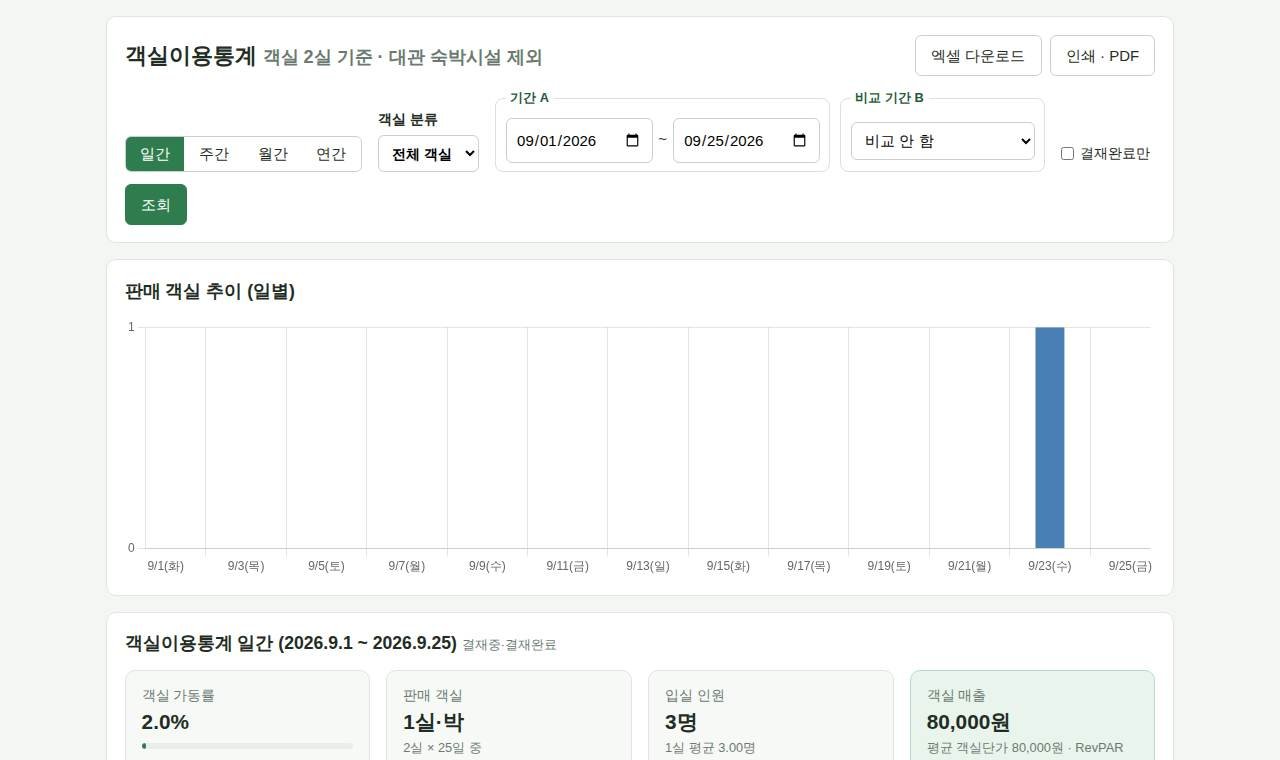
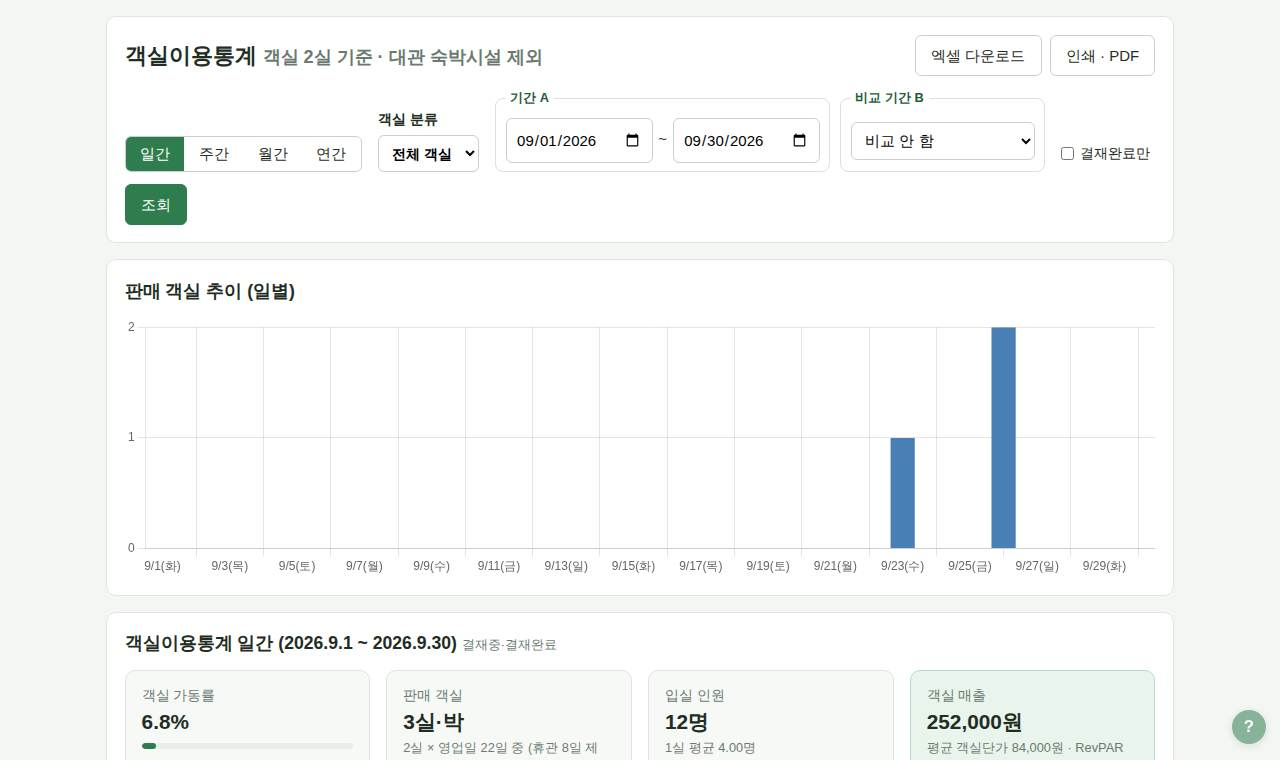
휴관일 설정(정기 휴관 요일·명절 휴관) + 객실 가동률을 영업일 기준으로 (DB v42)
설정 › 휴관일: 매주 정기 휴관 요일(기본 화)과 명절 등 휴관 기간(closed_days) 관리.
객실이용통계 가동률·RevPAR 분모 = 객실 수 × 영업일(휴관일 제외). 표·요일별·엑셀에 휴관 표시.
도움말·업데이트·README 반영.

Claude-Session: https://claude.ai/code/session_01Lr6yxKyasrSL9QLfMX5TX8

diff --git a/assets/style.css b/assets/style.css
@@ -277,6 +277,7 @@ a.kpi:hover { text-decoration: none; border-color: var(--green); }
 .dc-form { display: flex; flex-wrap: wrap; align-items: center; gap: .5rem 1rem; padding: .6rem .8rem; background: #f7f9f7; border-radius: 6px; margin-bottom: .75rem; }
 .dc-form label { display: inline-flex; align-items: center; gap: .3rem; margin: 0; font-weight: 400; }
 .dc-form input { width: 4rem; margin: 0; }
+.dc-form .inline-check input { width: auto; }
 .dc-preview { display: block; font-size: .75rem; text-align: right; margin-top: .15rem; }
 table[data-voucher-summary] tr.issue td { color: var(--red); font-weight: 600; }
 
@@ -1148,3 +1149,5 @@ label .tm-pick { display: flex; margin-top: .25rem; }
 .tg-day .tg-ev { font-size: .82rem; }
 .mini-d.sel { outline: 2px solid var(--green); outline-offset: -2px; }
 @media print { .tg-scroll { overflow: visible; } .tg-week { min-width: 0; } }
+
+.rs-table tr.rs-closed td { background: #f6f6f6; color: #9aa0a6; }

diff --git a/room_stats.php b/room_stats.php
@@ -4,7 +4,8 @@
  *   room_stats.php?unit=day|week|month|year&from=&to=[&type=객실분류][&cmp=prev|lastyear|custom&cfrom=&cto=][&approved=1][&export=xlsx]
  * 매출보고의 객실 판매(대관 숙박시설 제외)로 판매 객실·입실인원·매출·가동률·평균 객실단가·RevPAR 를
  * 일간·주간·월간·연간으로 집계하고, 두 기간을 비교한다.
- *   가동률 = 판매 객실(실·박) ÷ (객실 수 × 일수). 객실 수는 상품관리의 '판매 중' 객실 기준
+ *   가동률 = 판매 객실(실·박) ÷ (객실 수 × 영업일). 객실 수는 상품관리의 '판매 중' 객실 기준
+ *   영업일 = 기간의 날 수 − 휴관일 (설정 › 휴관일: 매주 정기 휴관 요일 + 명절 등)
  */
 require __DIR__ . '/app/bootstrap.php';
 require __DIR__ . '/app/xlsx.php';
@@ -81,14 +82,17 @@ function rs_label(string $key, string $unit, string $from, string $to): string
  */
 function rs_period(string $from, string $to, string $unit, array $statuses, int $roomCount, array $roomProducts, bool $onlyThese = false): array
 {
-    $blank = ['days' => 0, 'sold' => 0, 'guests' => 0, 'amount' => 0, 'weekday' => 0, 'weekend' => 0, 'peak' => 0, 'dc' => 0];
+    $blank = ['days' => 0, 'closed' => 0, 'sold' => 0, 'guests' => 0, 'amount' => 0, 'weekday' => 0, 'weekend' => 0, 'peak' => 0, 'dc' => 0];
     $buckets = [];
-    $weekdays = array_fill(0, 7, ['days' => 0, 'sold' => 0, 'guests' => 0, 'amount' => 0]);
+    $weekdays = array_fill(0, 7, ['days' => 0, 'closed' => 0, 'sold' => 0, 'guests' => 0, 'amount' => 0]);
+    $closed = closed_dates($from, $to); // 휴관일은 영업일(가동률 분모)에서 뺀다
     for ($d = $from; $d <= $to; $d = date('Y-m-d', strtotime("$d +1 day"))) {
         $k = rs_key($d, $unit);
         $buckets[$k] ??= $blank + ['label' => rs_label($k, $unit, $from, $to)];
-        $buckets[$k]['days']++;
-        $weekdays[(int) date('w', strtotime($d))]['days']++;
+        $m = isset($closed[$d]) ? 'closed' : 'days';
+        $buckets[$k][$m]++;
+        $weekdays[(int) date('w', strtotime($d))][$m]++;
+        if ($m === 'closed' && $unit === 'day') $buckets[$k]['closed_name'] = $closed[$d];
     }
     $st = db()->prepare(
         "SELECT j.work_date, l.product_id, l.name, l.rate, l.discounted, l.qty, l.guests, l.amount
@@ -197,7 +201,8 @@ $metrics = [
     'weekend' => ['비수기 주말 판매', 'n'],
     'peak'   => ['성수기 판매', 'n'],
     'dc'     => ['할인 판매', 'n'],
-    'days'   => ['일수', 'n'],
+    'days'   => ['영업일 (휴관일 제외)', 'n'],
+    'closed' => ['휴관일', 'n'],
 ];
 $fmtM = fn($v, string $f) => match ($f) { 'p' => number_format($v, 1) . '%', 'f' => number_format($v, 2), default => number_format(round($v)) };
 $periodLabel = fn(string $f, string $t) => date('Y.n.j', strtotime($f)) . ' ~ ' . date('Y.n.j', strtotime($t));
@@ -205,13 +210,13 @@ $title = '객실이용통계 ' . ($typeId ? $types[$typeId]['name'] . ' ' : '') 
 
 /* ───────────── 엑셀 ───────────── */
 if (($_GET['export'] ?? '') === 'xlsx') {
-    $sub = "$statusLabel 집계 · 객실 {$roomCount}실 기준 · 출력 " . date('Y-m-d H:i') . ' · ' . $user['name'];
+    $sub = "$statusLabel 집계 · 객실 {$roomCount}실 기준 · 가동률은 휴관일 제외 · 출력 " . date('Y-m-d H:i') . ' · ' . $user['name'];
     $bucketSheet = fn(array $P, string $name, string $pl) => [
         'name' => $name, 'title' => "객실이용통계 $name ($pl)", 'subtitle' => $sub,
-        'header' => ['기간', '일수', '판매 객실', '가동률(%)', '입실 인원', '1실 평균 인원', '객실 매출', '평균 객실단가', 'RevPAR', '비수기 평일', '비수기 주말', '성수기', '할인'],
-        'rows' => array_map(fn($b) => [$b['label'], $b['days'], $b['sold'], round($b['occ'], 1), $b['guests'], round($b['gpr'], 2), $b['amount'], (int) round($b['adr']), (int) round($b['revpar']), $b['weekday'], $b['weekend'], $b['peak'], $b['dc']], array_values($P['buckets'])),
-        'footer' => [['합계', $P['total']['days'], $P['total']['sold'], round($P['total']['occ'], 1), $P['total']['guests'], round($P['total']['gpr'], 2), $P['total']['amount'], (int) round($P['total']['adr']), (int) round($P['total']['revpar']), $P['total']['weekday'], $P['total']['weekend'], $P['total']['peak'], $P['total']['dc']]],
-        'widths' => [16, 7, 10, 10, 10, 11, 13, 12, 11, 10, 10, 9, 8],
+        'header' => ['기간', '영업일', '휴관일', '판매 객실', '가동률(%)', '입실 인원', '1실 평균 인원', '객실 매출', '평균 객실단가', 'RevPAR', '비수기 평일', '비수기 주말', '성수기', '할인'],
+        'rows' => array_map(fn($b) => [$b['label'] . (!empty($b['closed_name']) ? ' ' . $b['closed_name'] : ''), $b['days'], $b['closed'], $b['sold'], round($b['occ'], 1), $b['guests'], round($b['gpr'], 2), $b['amount'], (int) round($b['adr']), (int) round($b['revpar']), $b['weekday'], $b['weekend'], $b['peak'], $b['dc']], array_values($P['buckets'])),
+        'footer' => [['합계', $P['total']['days'], $P['total']['closed'], $P['total']['sold'], round($P['total']['occ'], 1), $P['total']['guests'], round($P['total']['gpr'], 2), $P['total']['amount'], (int) round($P['total']['adr']), (int) round($P['total']['revpar']), $P['total']['weekday'], $P['total']['weekend'], $P['total']['peak'], $P['total']['dc']]],
+        'widths' => [22, 7, 7, 10, 10, 10, 11, 13, 12, 11, 10, 10, 9, 8],
     ];
     $sheets = [$bucketSheet($A, '기간A ' . RS_UNITS[$unit], $periodLabel($from, $to))];
     if ($B) {
@@ -233,7 +238,7 @@ if (($_GET['export'] ?? '') === 'xlsx') {
         'widths' => [24, 10, 10, 10, 13, 10, 12, 13]];
     $wd = ['일', '월', '화', '수', '목', '금', '토'];
     $sheets[] = ['name' => '요일별', 'title' => '요일별 가동률', 'subtitle' => $sub,
-        'header' => ['요일', '일수', '판매', '가동률(%)', '입실 인원', '매출', ...($B ? ['비교 판매', '비교 가동률(%)'] : [])],
+        'header' => ['요일', '영업일', '판매', '가동률(%)', '입실 인원', '매출', ...($B ? ['비교 판매', '비교 가동률(%)'] : [])],
         'rows' => array_map(fn($i) => [$wd[$i], $A['weekdays'][$i]['days'], $A['weekdays'][$i]['sold'], round($A['weekdays'][$i]['occ'], 1), $A['weekdays'][$i]['guests'], $A['weekdays'][$i]['amount'],
             ...($B ? [$B['weekdays'][$i]['sold'], round($B['weekdays'][$i]['occ'], 1)] : [])], [1, 2, 3, 4, 5, 6, 0]),
         'widths' => [8, 8, 8, 10, 10, 13, 10, 12]];
@@ -301,7 +306,7 @@ stat_chart('roomChart', '판매 객실 추이 (' . ($cg === 'day' ? '일별' : '
   <div class="kpis rs-kpis">
     <div class="kpi"><span>객실 가동률</span><b><?= $pct($T['occ']) ?></b><?= $occBar($T['occ']) ?>
       <?php if ($B): ?><small class="rs-diff <?= $T['occ'] >= $B['total']['occ'] ? 'up' : 'down' ?>">B 대비 <?= e($diffTxt($T['occ'], $B['total']['occ'], true)) ?></small><?php endif ?></div>
-    <div class="kpi"><span>판매 객실</span><b><?= number_format($T['sold']) ?>실·박</b><small class="muted"><?= $roomCount ?>실 × <?= $A['days'] ?>일 중</small>
+    <div class="kpi"><span>판매 객실</span><b><?= number_format($T['sold']) ?>실·박</b><small class="muted"><?= $roomCount ?>실 × 영업일 <?= $A['days'] ?>일 중<?= $T['closed'] ? ' (휴관 ' . $T['closed'] . '일 제외)' : '' ?></small>
       <?php if ($B): ?><small class="rs-diff <?= $T['sold'] >= $B['total']['sold'] ? 'up' : 'down' ?>">B 대비 <?= e($diffTxt($T['sold'], $B['total']['sold'])) ?></small><?php endif ?></div>
     <div class="kpi"><span>입실 인원</span><b><?= number_format($T['guests']) ?>명</b><small class="muted">1실 평균 <?= number_format($T['gpr'], 2) ?>명</small>
       <?php if ($B): ?><small class="rs-diff <?= $T['guests'] >= $B['total']['guests'] ? 'up' : 'down' ?>">B 대비 <?= e($diffTxt($T['guests'], $B['total']['guests'])) ?></small><?php endif ?></div>
@@ -357,7 +362,7 @@ stat_chart('roomChart', '판매 객실 추이 (' . ($cg === 'day' ? '일별' : '
       <tr><th>구간</th><th class="right">판매</th><th>가동률</th><th class="right">인원</th><th class="right">매출</th>
         <th class="rs-b">구간</th><th class="right rs-b">판매</th><th class="right rs-b">가동률</th><th class="right rs-b">매출</th><th class="right">가동률</th><th class="right">매출</th></tr>
       <?php else: ?>
-      <tr><th>구간</th><th class="right">일수</th><th class="right">판매</th><th>가동률</th><th class="right">입실 인원</th><th class="right">1실 평균</th><th class="right">객실 매출</th><th class="right">평균 객실단가</th><th class="right">RevPAR</th>
+      <tr><th>구간</th><th class="right">영업일</th><th class="right">판매</th><th>가동률</th><th class="right">입실 인원</th><th class="right">1실 평균</th><th class="right">객실 매출</th><th class="right">평균 객실단가</th><th class="right">RevPAR</th>
         <th class="right">비수기 평일</th><th class="right">비수기 주말</th><th class="right">성수기</th><th class="right">할인</th></tr>
       <?php endif ?>
     </thead>
@@ -374,9 +379,10 @@ stat_chart('roomChart', '판매 객실 추이 (' . ($cg === 'day' ? '일별' : '
         <td class="right rs-diff <?= $a && $b ? ($a['amount'] > $b['amount'] ? 'up' : ($a['amount'] < $b['amount'] ? 'down' : '')) : '' ?>"><?= $a && $b ? e($diffTxt($a['amount'], $b['amount'])) : '' ?></td>
       </tr>
     <?php endfor; else: foreach ($A['buckets'] as $b): ?>
-      <tr class="<?= $b['sold'] ? '' : 'zero' ?>">
-        <td class="nowrap"><?= e($b['label']) ?></td><td class="right"><?= $b['days'] ?></td><td class="right"><?= number_format($b['sold']) ?></td>
-        <td class="nowrap"><?= $occBar($b['occ']) ?> <?= $pct($b['occ']) ?></td><td class="right"><?= number_format($b['guests']) ?></td><td class="right"><?= number_format($b['gpr'], 2) ?></td>
+      <tr class="<?= $b['sold'] ? '' : 'zero' ?> <?= !$b['days'] && $b['closed'] ? 'rs-closed' : '' ?>">
+        <td class="nowrap"><?= e($b['label']) ?><?= !empty($b['closed_name']) ? ' <small class="muted">' . e($b['closed_name']) . '</small>' : '' ?></td>
+        <td class="right"><?= $b['days'] ?><?= $b['closed'] && $b['days'] ? ' <small class="muted">(휴관 ' . $b['closed'] . ')</small>' : '' ?></td><td class="right"><?= number_format($b['sold']) ?></td>
+        <td class="nowrap"><?= !$b['days'] && $b['closed'] ? '<span class="muted">휴관</span>' : $occBar($b['occ']) . ' ' . $pct($b['occ']) ?></td><td class="right"><?= number_format($b['guests']) ?></td><td class="right"><?= number_format($b['gpr'], 2) ?></td>
         <td class="right"><?= number_format($b['amount']) ?></td><td class="right"><?= number_format(round($b['adr'])) ?></td><td class="right"><?= number_format(round($b['revpar'])) ?></td>
         <td class="right"><?= $b['weekday'] ?: '-' ?></td><td class="right"><?= $b['weekend'] ?: '-' ?></td><td class="right"><?= $b['peak'] ?: '-' ?></td><td class="right"><?= $b['dc'] ?: '-' ?></td>
       </tr>
@@ -388,7 +394,7 @@ stat_chart('roomChart', '판매 객실 추이 (' . ($cg === 'day' ? '일별' : '
         <th class="rs-b">합계 B</th><th class="right rs-b"><?= number_format($B['total']['sold']) ?></th><th class="right rs-b"><?= $pct($B['total']['occ']) ?></th><th class="right rs-b"><?= number_format($B['total']['amount']) ?></th>
         <th class="right"><?= e($diffTxt($T['occ'], $B['total']['occ'], true)) ?></th><th class="right"><?= e($diffTxt($T['amount'], $B['total']['amount'])) ?></th></tr>
       <?php else: ?>
-      <tr><th>합계</th><th class="right"><?= $T['days'] ?></th><th class="right"><?= number_format($T['sold']) ?></th><th><?= $pct($T['occ']) ?></th><th class="right"><?= number_format($T['guests']) ?></th>
+      <tr><th>합계</th><th class="right"><?= $T['days'] ?><?= $T['closed'] ? ' <small>(휴관 ' . $T['closed'] . ')</small>' : '' ?></th><th class="right"><?= number_format($T['sold']) ?></th><th><?= $pct($T['occ']) ?></th><th class="right"><?= number_format($T['guests']) ?></th>
         <th class="right"><?= number_format($T['gpr'], 2) ?></th><th class="right"><?= number_format($T['amount']) ?></th><th class="right"><?= number_format(round($T['adr'])) ?></th><th class="right"><?= number_format(round($T['revpar'])) ?></th>
         <th class="right"><?= $T['weekday'] ?></th><th class="right"><?= $T['weekend'] ?></th><th class="right"><?= $T['peak'] ?></th><th class="right"><?= $T['dc'] ?></th></tr>
       <?php endif ?>
@@ -419,18 +425,18 @@ stat_chart('roomChart', '판매 객실 추이 (' . ($cg === 'day' ? '일별' : '
   <section class="card">
     <h2>요일별 가동률</h2>
     <table class="table">
-      <thead><tr><th>요일</th><th class="right">일수</th><th class="right">판매</th><th>가동률</th><th class="right">인원</th><?php if ($B): ?><th class="right">B 가동률</th><?php endif ?></tr></thead>
+      <thead><tr><th>요일</th><th class="right">영업일</th><th class="right">판매</th><th>가동률</th><th class="right">인원</th><?php if ($B): ?><th class="right">B 가동률</th><?php endif ?></tr></thead>
       <tbody>
       <?php foreach ([1, 2, 3, 4, 5, 6, 0] as $i): $w = $A['weekdays'][$i]; ?>
         <tr><td class="<?= $i === 0 ? 'sun-text' : ($i === 6 ? 'sat-text' : '') ?>"><?= ['일', '월', '화', '수', '목', '금', '토'][$i] ?></td>
-          <td class="right"><?= $w['days'] ?></td><td class="right"><?= number_format($w['sold']) ?></td>
-          <td class="nowrap"><?= $occBar($w['occ']) ?> <?= $pct($w['occ']) ?></td><td class="right"><?= number_format($w['guests']) ?></td>
+          <td class="right"><?= $w['days'] ?><?= $w['closed'] ? ' <small class="muted">(휴관 ' . $w['closed'] . ')</small>' : '' ?></td><td class="right"><?= number_format($w['sold']) ?></td>
+          <td class="nowrap"><?= !$w['days'] && $w['closed'] ? '<span class="muted">정기 휴관</span>' : $occBar($w['occ']) . ' ' . $pct($w['occ']) ?></td><td class="right"><?= number_format($w['guests']) ?></td>
           <?php if ($B): ?><td class="right"><?= $pct($B['weekdays'][$i]['occ']) ?></td><?php endif ?></tr>
       <?php endforeach ?>
       </tbody>
     </table>
   </section>
 </div>
-<p class="muted small">가동률 = 판매 객실(실·박) ÷ (객실 수 <?= $roomCount ?>실 × 일수). 객실 수는 상품관리에서 '판매' 중인 객실 기준입니다.
-  평균 객실단가 = 객실 매출 ÷ 판매 객실, RevPAR(객실당 1일 매출) = 객실 매출 ÷ (객실 수 × 일수). 임시저장·반려된 매출보고는 집계하지 않고, 대관 숙박시설은 제외합니다.</p>
+<p class="muted small">가동률 = 판매 객실(실·박) ÷ (객실 수 <?= $roomCount ?>실 × <b>영업일</b>). 영업일은 기간의 날 수에서 <b>휴관일</b>(정기 휴관 요일<?= closed_weekdays() ? ' ' . e(implode('·', array_map(fn($w) => ['일', '월', '화', '수', '목', '금', '토'][$w], closed_weekdays()))) : '' ?> + 명절 등)을 뺀 날입니다<?= $user['is_admin'] ? ' (<a href="' . e(url('settings.php?tab=closed')) . '">설정 › 휴관일</a>)' : ' (설정 › 휴관일, 최고관리자)' ?>. 객실 수는 상품관리에서 '판매' 중인 객실 기준입니다.
+  평균 객실단가 = 객실 매출 ÷ 판매 객실, RevPAR(객실당 1일 매출) = 객실 매출 ÷ (객실 수 × 영업일). 임시저장·반려된 매출보고는 집계하지 않고, 대관 숙박시설은 제외합니다.</p>
 <?php layout_footer();

diff --git a/settings.php b/settings.php
@@ -1,13 +1,13 @@
 <?php
 /**
- * 설정 (최고관리자): settings.php?tab=general (기본 정보) | org (조직 구성: 팀·반)
+ * 설정 (최고관리자): settings.php?tab=general (기본 정보) | org (조직 구성: 팀·반) | closed (휴관일: 정기 휴관 요일·명절 등)
  * 다른 하위 메뉴(회원관리, 상품·요금, 시설 구역, 장비 분류)는 각 페이지에서 같은 설정 메뉴를 보여준다.
  */
 require __DIR__ . '/app/bootstrap.php';
 
 $me = require_admin();
 $pdo = db();
-$tab = ($_GET['tab'] ?? 'general') === 'org' ? 'org' : 'general';
+$tab = in_array($_GET['tab'] ?? '', ['org', 'closed'], true) ? $_GET['tab'] : 'general';
 
 if (is_post()) {
     csrf_verify();
@@ -27,6 +27,36 @@ if (is_post()) {
         setting_set('org_park_name', mb_substr(post('org_park_name'), 0, 100));
         flash('기본 정보를 저장했습니다.', 'success');
         redirect('settings.php?tab=general');
+    }
+
+    // 휴관일: 정기 휴관 요일 / 명절 등 휴관 기간 (객실이용통계 가동률에서 뺀다)
+    if ($target === 'closed_weekdays') {
+        $wds = array_values(array_unique(array_filter(array_map('intval', (array) ($_POST['wd'] ?? [])), fn($w) => $w >= 0 && $w <= 6)));
+        sort($wds);
+        setting_set('closed_weekdays', implode(',', $wds));
+        flash('정기 휴관 요일을 저장했습니다.', 'success');
+        redirect('settings.php?tab=closed');
+    }
+    if ($target === 'closed_day') {
+        if ($del) {
+            $pdo->prepare('DELETE FROM closed_days WHERE id = ?')->execute([$id]);
+            flash('휴관일을 삭제했습니다.', 'success');
+        } else {
+            $cname = mb_substr(post('name'), 0, 100);
+            $df = post('date_from');
+            $dt = post('date_to') ?: $df;
+            if ($cname === '' || !valid_date($df) || !valid_date($dt)) flash('이름과 날짜를 확인하세요.', 'error');
+            elseif ($dt < $df) flash('끝나는 날이 시작일보다 빠릅니다.', 'error');
+            elseif ((strtotime($dt) - strtotime($df)) / 86400 > 31) flash('한 번에 31일까지 등록할 수 있습니다.', 'error');
+            elseif ($id) {
+                $pdo->prepare('UPDATE closed_days SET name = ?, date_from = ?, date_to = ? WHERE id = ?')->execute([$cname, $df, $dt, $id]);
+                flash("'{$cname}' 저장했습니다.", 'success');
+            } else {
+                $pdo->prepare('INSERT INTO closed_days (name, date_from, date_to, created_by) VALUES (?, ?, ?, ?)')->execute([$cname, $df, $dt, $me['id']]);
+                flash("휴관일 '{$cname}'을(를) 추가했습니다.", 'success');
+            }
+        }
+        redirect('settings.php?tab=closed');
     }
 
     if ($target === 'team') {
@@ -69,7 +99,7 @@ if (is_post()) {
     redirect('settings.php');
 }
 
-layout_header('설정', 'settings');
+layout_header($tab === 'closed' ? '휴관일' : '설정', 'settings');
 settings_nav($tab);
 
 if ($tab === 'general'): ?>
@@ -89,11 +119,55 @@ if ($tab === 'general'): ?>
   <h2>설정 메뉴 안내</h2>
   <ul class="list">
     <li><a href="<?= e(url('settings.php?tab=org')) ?>">조직 구성</a><span class="muted">팀과 팀 아래 반을 만들고 이름·순서를 정합니다</span></li>
+    <li><a href="<?= e(url('settings.php?tab=closed')) ?>">휴관일</a><span class="muted">정기 휴관 요일과 명절 등 휴관일 (객실 가동률 계산에서 뺍니다)</span></li>
     <li><a href="<?= e(url('admin/users.php')) ?>">회원관리</a><span class="muted">가입 승인, 직급·팀·반·반장·보직 지정, 전결권한</span></li>
     <li><a href="<?= e(url('admin/products.php')) ?>">상품·요금</a><span class="muted">입장권·객실 상품, 객실 할인율, 기간요금(성수기·동절기)</span></li>
     <li><a href="<?= e(url('groups.php?kind=facility')) ?>">시설 구역·건물</a><span class="muted">팀별 시설 구역·건물 (세부시설은 시설물 메뉴에서 등록)</span></li>
     <li><a href="<?= e(url('groups.php?kind=equipment')) ?>">장비 분류</a><span class="muted">팀별 장비 분류 (장비는 장비 메뉴에서 등록)</span></li>
   </ul>
+</section>
+<?php elseif ($tab === 'closed'):
+    $wds = closed_weekdays();
+    $wdNames = ['일', '월', '화', '수', '목', '금', '토'];
+    $list = closed_days_all();
+    $today = date('Y-m-d');
+    $cRow = function (?array $c) {
+        $fid = 'cd' . ($c['id'] ?? 'new'); ?>
+      <tr class="<?= $c ? ($c['date_to'] < date('Y-m-d') ? 'inactive' : '') : 'new-row' ?>">
+        <td><input form="<?= $fid ?>" name="name" value="<?= e($c['name'] ?? '') ?>" placeholder="예: <?= date('Y') + 1 ?> 설날 휴관" required></td>
+        <td><input form="<?= $fid ?>" type="date" name="date_from" value="<?= e($c['date_from'] ?? '') ?>" required></td>
+        <td><input form="<?= $fid ?>" type="date" name="date_to" value="<?= e($c['date_to'] ?? '') ?>" placeholder="하루면 비움"></td>
+        <td class="small nowrap"><?= $c ? ((int) round((strtotime($c['date_to']) - strtotime($c['date_from'])) / 86400) + 1) . '일 · ' . e(weekday_ko($c['date_from'])) . '~' . e(weekday_ko($c['date_to'])) : '' ?></td>
+        <td class="nowrap">
+          <form method="post" id="<?= $fid ?>">
+            <?= csrf_field() ?><input type="hidden" name="target" value="closed_day"><input type="hidden" name="id" value="<?= (int) ($c['id'] ?? 0) ?>">
+            <button class="btn small primary" name="action" value="save"><?= $c ? '저장' : '추가' ?></button>
+            <?php if ($c): ?><button class="btn small ghost danger" name="action" value="delete" formnovalidate onclick="return confirm('삭제할까요?')">삭제</button><?php endif ?>
+          </form>
+        </td>
+      </tr>
+    <?php }; ?>
+<section class="card">
+  <h1>휴관일</h1>
+  <p class="muted small">여기 등록한 휴관일은 <b>통계 › 객실이용통계</b>의 가동률 계산에서 뺍니다 (가동률 = 판매 객실 ÷ (객실 수 × <b>영업일</b>)).</p>
+  <form method="post" class="dc-form">
+    <?= csrf_field() ?><input type="hidden" name="target" value="closed_weekdays">
+    <b>정기 휴관 요일 (매주)</b>
+    <?php foreach ([1, 2, 3, 4, 5, 6, 0] as $w): ?>
+      <label class="inline-check"><input type="checkbox" name="wd[]" value="<?= $w ?>" <?= in_array($w, $wds, true) ? 'checked' : '' ?>> <?= $wdNames[$w] ?></label>
+    <?php endforeach ?>
+    <button class="btn small primary">저장</button>
+  </form>
+
+  <h2>명절 등 휴관일 <small class="muted">해마다 날짜가 바뀌는 휴관 (설날·추석 등)</small></h2>
+  <table class="table product-table">
+    <thead><tr><th>이름</th><th>시작일</th><th>끝나는 날 <small class="muted">(하루면 비움)</small></th><th>일수</th><th></th></tr></thead>
+    <tbody>
+      <?php $cRow(null); foreach ($list as $c) $cRow($c); ?>
+    </tbody>
+  </table>
+  <?php if (!$list): ?><p class="muted small">등록된 휴관일이 없습니다. 위 첫 줄에 이름과 날짜를 넣고 '추가'를 누르세요.</p><?php endif ?>
+  <p class="muted small">지난 휴관일은 흐리게 보입니다. 지난 기간의 통계에도 계속 쓰이므로 지우지 않아도 됩니다.</p>
 </section>
 <?php else:
     $teamCounts = array_column($pdo->query("SELECT team_id, COUNT(*) AS n FROM users WHERE status = 'active' GROUP BY team_id")->fetchAll(), 'n', 'team_id');

diff --git a/app/help.php b/app/help.php
@@ -246,6 +246,8 @@ HTML],
 <ul>
   <li>판매 객실·입실 인원·객실 매출·<b>가동률</b>·평균 객실단가·RevPAR, 요금구분·할인 판매. 일간·주간·월간·연간.</li>
   <li><b>비교 기간</b>(직전·작년 같은 기간·직접 입력)과의 증감, 객실 분류별·객실별·요일별 가동률. 엑셀·인쇄.</li>
+  <li>가동률 = 판매 객실 ÷ (객실 수 × <b>영업일</b>). 영업일은 기간의 날 수에서 <b>휴관일</b>(매주 정기 휴관 요일 + 명절 등)을 뺀 날입니다. 휴관일은 최고관리자가 <b>설정 › 휴관일</b>에서 정합니다.
+    일간 표에서 휴관일은 회색으로 '휴관', 요일별 표에서 정기 휴관 요일은 '정기 휴관'으로 나옵니다.</li>
 </ul>
 HTML],
             ['id' => 'cpl_stats', 'title' => '민원통계', 'keys' => ['cpl_stats'], 'img' => ['cpl_stats.jpg' => '민원통계'], 'body' => <<<'HTML'
@@ -339,6 +341,14 @@ HTML],
 <ul>
   <li>지난 기간에 다른 가격을 썼다면 그 기간(날짜 범위)의 <b>가격표</b>를 만듭니다. 문서 일자가 기간 안이면 그 가격으로 계산됩니다.</li>
   <li>가격이 바뀔 때: ① 지금 가격을 가격표로 보관(현재 가격으로 채워 두기) → ② 상품·요금에서 새 가격 입력.</li>
+</ul>
+HTML],
+            ['id' => 'set_closed', 'title' => '휴관일 (정기 휴관 요일 · 명절 휴관)', 'keys' => ['settings_closed'], 'img' => ['set_closed.jpg' => '설정 › 휴관일'], 'body' => <<<'HTML'
+<p>휴관일은 <b>통계 › 객실이용통계</b>의 가동률 계산에서 빠집니다 (가동률 = 판매 객실 ÷ (객실 수 × 영업일)).</p>
+<ul>
+  <li><b>정기 휴관 요일</b>: 매주 쉬는 요일에 체크하고 저장합니다 (처음에는 화요일).</li>
+  <li><b>명절 등 휴관일</b>: 해마다 날짜가 바뀌는 휴관(설날·추석 등)을 이름·시작일·끝나는 날로 추가합니다. 하루면 끝나는 날을 비웁니다 (한 번에 31일까지).</li>
+  <li>지난 휴관일은 흐리게 보이며, 지난 기간 통계에도 쓰이므로 지우지 않아도 됩니다. 정기 휴관 요일과 겹쳐도 한 번만 뺍니다.</li>
 </ul>
 HTML],
             ['id' => 'set_general', 'title' => '기본 정보 · 조직 구성 · 시설 구역 · 장비 분류', 'keys' => ['settings', 'settings_general', 'settings_org', 'settings_facility', 'settings_equipment'], 'img' => ['set_general.jpg' => '기본 정보', 'set_org.jpg' => '조직 구성 — 팀별 시설점검·시설물 사용'], 'body' => <<<'HTML'

diff --git a/app/events.php b/app/events.php
@@ -196,3 +196,40 @@ function timegrid_columns(array $list, callable $mins): array
     $flush();
     return $out;
 }
+
+/* ───────────── 휴관일 (설정 › 휴관일) — 객실이용통계의 가동률 계산에서 뺀다 ───────────── */
+
+/** 정기 휴관 요일 [0=일 … 6=토] (기본 화요일) */
+function closed_weekdays(): array
+{
+    $v = trim((string) setting('closed_weekdays', '2'));
+    if ($v === '') return [];
+    return array_values(array_unique(array_filter(array_map('intval', explode(',', $v)), fn($w) => $w >= 0 && $w <= 6)));
+}
+
+/** 명절 등 휴관일 목록 (최근 것이 위) */
+function closed_days_all(): array
+{
+    return db()->query('SELECT * FROM closed_days ORDER BY date_from DESC, id DESC')->fetchAll();
+}
+
+/** 기간 안의 휴관일 ['2026-10-06' => '정기 휴관(화)', '2027-02-07' => '2027 설날 휴관', ...] */
+function closed_dates(string $from, string $to): array
+{
+    $out = [];
+    $wds = closed_weekdays();
+    $wdName = ['일', '월', '화', '수', '목', '금', '토'];
+    if ($wds) {
+        for ($d = $from; $d <= $to; $d = date('Y-m-d', strtotime("$d +1 day"))) {
+            $w = (int) date('w', strtotime($d));
+            if (in_array($w, $wds, true)) $out[$d] = "정기 휴관({$wdName[$w]})";
+        }
+    }
+    $st = db()->prepare('SELECT * FROM closed_days WHERE date_from <= ? AND date_to >= ? ORDER BY date_from, id');
+    $st->execute([$to, $from]);
+    foreach ($st as $c) {
+        for ($d = max($c['date_from'], $from); $d <= min($c['date_to'], $to); $d = date('Y-m-d', strtotime("$d +1 day"))) $out[$d] = $c['name'];
+    }
+    ksort($out);
+    return $out;
+}

diff --git a/app/changelog.php b/app/changelog.php
@@ -7,6 +7,10 @@ defined('APP_ROOT') || exit;
  *   ['date' => 'YYYY-MM-DD', 'title' => '한 줄 요약', 'items' => ['자세한 내용', ...], 'menu' => '관련 메뉴(선택)']
  */
 const CHANGELOG = [
+    ['date' => '2026-09-30', 'title' => '휴관일 설정 · 객실 가동률에서 휴관일 제외', 'menu' => '통계', 'items' => [
+        '설정 › 휴관일을 새로 만들었습니다. 매주 정기 휴관 요일(기본 화요일)과 해마다 바뀌는 명절 등 휴관일(이름·기간)을 등록합니다.',
+        '통계 › 객실이용통계의 가동률은 이제 휴관일을 뺀 영업일로 계산합니다 (가동률 = 판매 객실 ÷ (객실 수 × 영업일)). 휴관일 수와 휴관한 날이 표·요일별 표·엑셀에 표시됩니다.',
+    ]],
     ['date' => '2026-09-29', 'title' => '객실 단체 할인율 설정', 'menu' => '설정', 'items' => [
         "설정 › 상품·요금의 객실 할인율에 '단체' 칸을 추가했습니다. 일일객실판매에서 할인사유를 단체로 고르면 요금구분과 관계없이 단체 할인율이 적용됩니다.",
         '단체 칸을 비워 두면 지금처럼 요금구분별 할인율(비수기 평일·주말·성수기)이 적용됩니다.',

diff --git a/app/migrate.php b/app/migrate.php
@@ -6,7 +6,7 @@ defined('APP_ROOT') || exit;
  * 새 버전 파일을 FTP로 덮어쓰기만 하면, 첫 접속 때 부족한 테이블/컬럼을 만든다.
  * (기존 자료는 그대로 유지)
  */
-const DB_VERSION = 41;
+const DB_VERSION = 42;
 
 function db_version(): int
 {
@@ -393,6 +393,8 @@ function db_migrate(): void
     if (!column_exists('sales_lines', 'dc_reason')) {
         $pdo->exec("ALTER TABLE sales_lines ADD dc_reason VARCHAR(20) NULL COMMENT '객실 할인사유 (ROOM_DC_REASONS 키)' AFTER dc_pct");
     }
+
+    // 42) v41 → v42: 휴관일 (정기 휴관 요일 settings.closed_weekdays 기본 화, 명절 등 closed_days 는 1) 단계에서 생성) — 객실 가동률에서 제외
 
     $pdo->prepare("INSERT INTO settings (name, value) VALUES ('db_version', ?) ON DUPLICATE KEY UPDATE value = VALUES(value)")
         ->execute([(string) DB_VERSION]);

diff --git a/app/layout.php b/app/layout.php
@@ -216,6 +216,7 @@ const SETTINGS_MENU = [
     'users'     => ['admin/users.php', '회원관리'],
     'products'  => ['admin/products.php', '상품·요금'],
     'prices'    => ['admin/prices.php', '기간별 가격'],
+    'closed'    => ['settings.php?tab=closed', '휴관일'],
     'facility'  => ['groups.php?kind=facility', '시설 구역·건물'],
     'equipment' => ['groups.php?kind=equipment', '장비 분류'],
 ];
